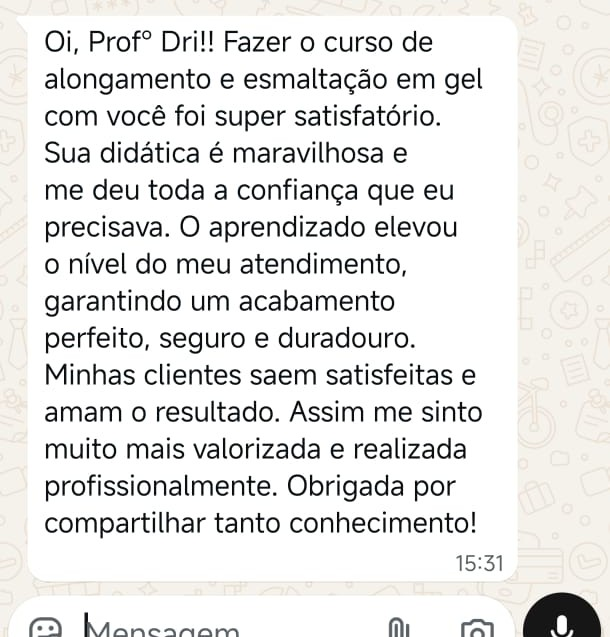
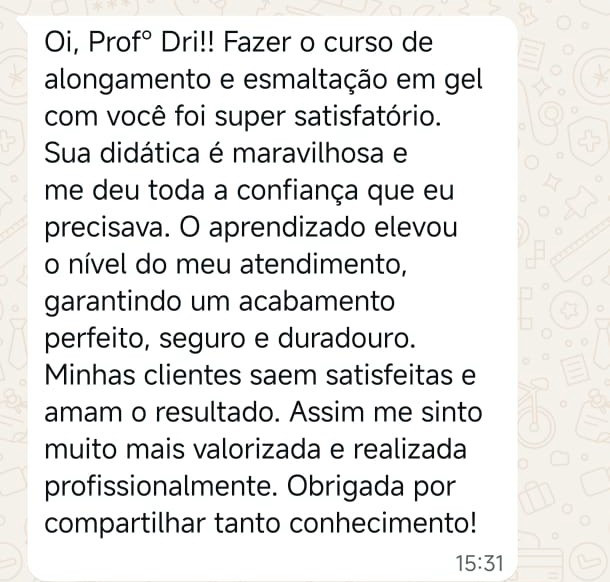
Curso: header nova foto, depoimentos em galeria+lightbox, bonus apos cronograma
- Depoimentos recortados (só o balão, sem barra de digitar/conversa extra) e
  exibidos em galeria (1 largura total + 2 lado a lado) com toque para ampliar
- Foto do header trocada para Adriana demonstrando o gel (produto-1)
- Bonus movido para logo abaixo da programacao do dia

Changed region(s): [[0.0311, 0.0309, 0.9967, 1.0], [0.0, 0.9588, 0.4049, 1.0], [0.623, 0.9588, 0.6852, 1.0]]

diff --git a/src/pages/CursoAlongamento.jsx b/src/pages/CursoAlongamento.jsx
@@ -1,3 +1,4 @@
+import { useState } from 'react'
 import { Link } from 'react-router-dom'
 import { wa, useReveal, IconWhatsapp } from '../lib.jsx'
 
@@ -56,6 +57,7 @@ const DEPOIMENTOS = [
 
 export default function CursoAlongamento() {
   const ref = useReveal()
+  const [zoom, setZoom] = useState(null)
 
   return (
     <div className="course" ref={ref}>
@@ -78,7 +80,7 @@ export default function CursoAlongamento() {
         <p className="course-tagline">“Dando asas ao seu talento”</p>
 
         <div className="course-hero-img">
-          <img src="/images/cursos/curso-turma.jpg" alt="Turma do curso de alongamento em gel" />
+          <img src="/images/produto-1.jpg" alt="Adriana demonstrando alongamento em gel" />
         </div>
 
         <p className="instructor">
@@ -133,6 +135,22 @@ export default function CursoAlongamento() {
         </ol>
       </section>
 
+      {/* BÔNUS */}
+      <section className="course-section reveal">
+        <h2 className="section-label">Bônus inclusos</h2>
+        <div className="bonus-list">
+          {BONUS.map((b) => (
+            <div className="bonus-item" key={b.t}>
+              <span className="bonus-ico">{b.icon}</span>
+              <span className="bonus-body">
+                <strong>{b.t}</strong>
+                <span>{b.d}</span>
+              </span>
+            </div>
+          ))}
+        </div>
+      </section>
+
       {/* DURAÇÃO */}
       <section className="course-section reveal">
         <div className="info-cards">
@@ -161,13 +179,17 @@ export default function CursoAlongamento() {
         </div>
       </section>
 
-      {/* DEPOIMENTOS (prints) */}
+      {/* DEPOIMENTOS (galeria) */}
       <section className="course-section reveal">
         <h2 className="section-label">O que dizem as alunas</h2>
-        <p className="swipe-hint">deslize para ver →</p>
-        <div className="depo-prints">
+        <p className="gallery-hint">toque para ampliar</p>
+        <div className="depo-gallery">
           {DEPOIMENTOS.map((src, i) => (
-            <figure key={i}>
+            <figure
+              key={i}
+              className={i === 0 ? 'wide' : ''}
+              onClick={() => setZoom(src)}
+            >
               <img src={src} alt={`Depoimento de aluna ${i + 1}`} loading="lazy" />
             </figure>
           ))}
@@ -198,22 +220,6 @@ export default function CursoAlongamento() {
           <a className="cta-btn" href={inscricaoHref} target="_blank" rel="noopener noreferrer">
             <IconWhatsapp /> Quero me inscrever
           </a>
-        </div>
-      </section>
-
-      {/* BÔNUS */}
-      <section className="course-section reveal">
-        <h2 className="section-label">Bônus inclusos</h2>
-        <div className="bonus-list">
-          {BONUS.map((b) => (
-            <div className="bonus-item" key={b.t}>
-              <span className="bonus-ico">{b.icon}</span>
-              <span className="bonus-body">
-                <strong>{b.t}</strong>
-                <span>{b.d}</span>
-              </span>
-            </div>
-          ))}
         </div>
       </section>
 
@@ -257,6 +263,16 @@ export default function CursoAlongamento() {
           Garantir vaga
         </a>
       </div>
+
+      {/* LIGHTBOX DEPOIMENTOS */}
+      {zoom && (
+        <div className="lightbox" onClick={() => setZoom(null)} role="dialog" aria-modal="true">
+          <button className="lb-close" aria-label="Fechar" onClick={() => setZoom(null)}>
+            ×
+          </button>
+          <img src={zoom} alt="Depoimento ampliado" onClick={(e) => e.stopPropagation()} />
+        </div>
+      )}
     </div>
   )
 }

diff --git a/src/index.css b/src/index.css
@@ -869,7 +869,7 @@ img {
   width: 100%;
   height: 100%;
   object-fit: cover;
-  object-position: center 30%;
+  object-position: center 22%;
 }
 .instructor {
   margin-top: 16px;
@@ -1335,42 +1335,99 @@ img {
   text-align: center;
 }
 
-/* ---------- Depoimentos em print ---------- */
-.swipe-hint {
-  text-align: right;
+/* ---------- Depoimentos em galeria ---------- */
+.gallery-hint {
+  text-align: center;
   font-size: 11px;
   letter-spacing: 1px;
   color: var(--ink-soft);
-  margin: -6px 2px 12px;
+  margin: -8px 0 14px;
 }
-.depo-prints {
-  display: flex;
-  gap: 14px;
-  overflow-x: auto;
-  scroll-snap-type: x mandatory;
-  -webkit-overflow-scrolling: touch;
-  padding: 4px 0 12px;
-  margin: 0 -22px;
-  padding-left: 22px;
-  padding-right: 22px;
-  scrollbar-width: none;
+.depo-gallery {
+  display: grid;
+  grid-template-columns: 1fr 1fr;
+  gap: 12px;
 }
-.depo-prints::-webkit-scrollbar {
-  display: none;
-}
-.depo-prints figure {
-  flex: 0 0 auto;
-  width: 74%;
-  max-width: 300px;
-  scroll-snap-align: center;
-  border-radius: 18px;
+.depo-gallery figure {
+  position: relative;
+  border-radius: 16px;
   overflow: hidden;
-  box-shadow: var(--shadow-md);
+  box-shadow: var(--shadow-sm);
   border: 1px solid rgba(20, 125, 128, 0.08);
-  background: #fff;
+  background: #efeae2;
+  cursor: zoom-in;
+  aspect-ratio: 3 / 4;
 }
-.depo-prints img {
+.depo-gallery figure.wide {
+  grid-column: 1 / -1;
+  aspect-ratio: auto;
+}
+.depo-gallery img {
   width: 100%;
+  height: 100%;
+  object-fit: cover;
+  object-position: top center;
+  transition: transform 0.4s ease;
+}
+.depo-gallery figure.wide img {
   height: auto;
-  display: block;
+  object-fit: contain;
+}
+.depo-gallery figure:hover img {
+  transform: scale(1.03);
+}
+.depo-gallery figure::after {
+  content: "⤢";
+  position: absolute;
+  right: 8px;
+  bottom: 8px;
+  width: 26px;
+  height: 26px;
+  border-radius: 50%;
+  background: rgba(15, 94, 96, 0.72);
+  color: #fff;
+  display: grid;
+  place-items: center;
+  font-size: 13px;
+}
+
+/* ---------- Lightbox ---------- */
+.lightbox {
+  position: fixed;
+  inset: 0;
+  z-index: 100;
+  background: rgba(18, 28, 27, 0.9);
+  display: flex;
+  align-items: center;
+  justify-content: center;
+  padding: 30px 18px;
+  overflow: auto;
+  animation: lb-in 0.2s ease;
+}
+@keyframes lb-in {
+  from { opacity: 0; }
+  to { opacity: 1; }
+}
+.lightbox img {
+  max-width: min(92vw, 430px);
+  max-height: 88vh;
+  object-fit: contain;
+  border-radius: 12px;
+  box-shadow: 0 24px 60px rgba(0, 0, 0, 0.5);
+  cursor: default;
+}
+.lb-close {
+  position: fixed;
+  top: 16px;
+  right: 18px;
+  width: 40px;
+  height: 40px;
+  border-radius: 50%;
+  background: rgba(255, 255, 255, 0.92);
+  border: none;
+  font-size: 26px;
+  line-height: 1;
+  color: #333;
+  cursor: pointer;
+  z-index: 101;
 }
